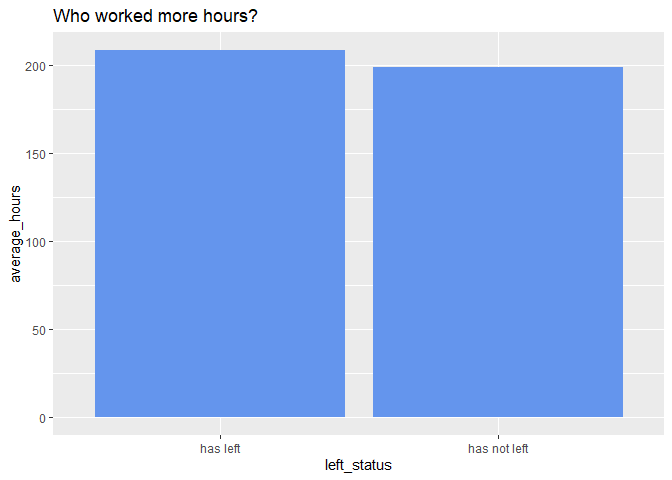
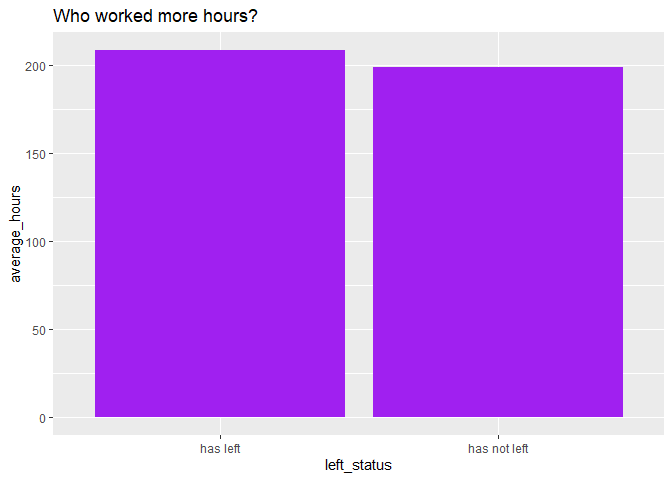
updated md file

diff --git a/Turnover_Report.md b/Turnover_Report.md
@@ -870,7 +870,7 @@ hours
 
 ``` r
 ggplot(hours, aes(x = left_status, y = average_hours)) + 
-  geom_bar(stat = 'identity', fill = 'cornflowerblue') +
+  geom_bar(stat = 'identity', fill = 'purple') +
   labs(title="Who worked more hours?")
 ```
 
